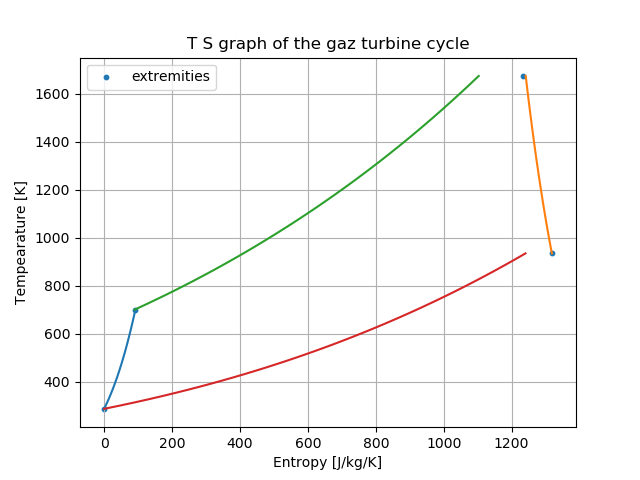
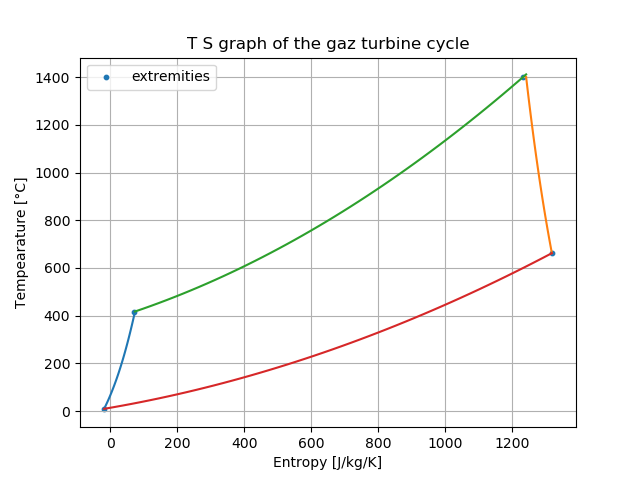
some changes

diff --git a/GT.py b/GT.py
@@ -330,24 +330,29 @@ def GT_simple(GT_input):
 
         # T S graph of the cycle
         Ta = np.linspace(T1,T2,50)
-        Tb = np.linspace(T2,T3,50)
+        #Tb = np.linspace(T2,T3,50)
         Tc = np.linspace(T4,T3,50)
         Td = np.linspace(T1,T4,50)
         Sa= np.zeros(len(Ta))
-        Sb = np.zeros(len(Tb))
+        #Sb = np.zeros(len(Tb))
         Sc = np.zeros(len(Tc))
-        Sd = np.zeros(len(Td))
+        #Sd = np.zeros(len(Td))
         for i in range(len(Ta)):
             Sa[i] = s1+(1-eta_pic)*janaf_integrate_air(cp_air_T,conc_mass1,Mm_a,T1,Ta[i],dt)
-            Sb[i]= s2 + janaf_integrate_air(cp_air_T,conc_mass1,Mm_a,T2,Tb[i],dt)
             Sc[i] = s4-(1-eta_pit)/eta_pit*janaf_integrate_air(cp_air_T,conc_mass1,Mm_a,T4,Tc[i],dt)
-            Sd[i]= s1 + janaf_integrate_air(cp_air_T,conc_mass1,Mm_a,T1,Td[i],dt)
+            #Sb[i] = s2+janaf_integrate_air(cp_air_T,conc_mass1,Mm_a,T2,Tb[i],dt)
+            #Sd[i]= s1 + janaf_integrate_air(cp_air_T,conc_mass1,Mm_a,T1,Td[i],dt)
+
+        Sb=np.linspace(Sa[-1],Sc[-1],50)
+        a,b,c= np.polyfit([s2,s3],[T2,T3],2)#  ==> c est faux
+        Sd=np.linspace(Sa[0],Sc[0],50)
+        a2,b2,c2= np.polyfit([s1,s4],[T1,T4],2) #==> c est faux
 
         fig3,ax1 = plt.subplots()
-        ax1.plot(Sa,Ta-273.15,Sc,Tc-273.15,Sb,Tb-273.15,Sd,Td-273.15)
+        ax1.plot(Sa,Ta-273.15,Sc,Tc-273.15,Sb,a*Sb**2+b*Sb+c-273.15,Sd,a2*Sd**2+b2*Sd+c2-273.15)
         ax1.scatter([s1,s2,s3,s4],[T1-273.15,T2-273.15,T3-273.15,T4-273.15],s=10,label='extremities')
         ax1.set_xlabel('Entropy [J/kg/K]')
-        ax1.set_ylabel('Tempearature [K]')
+        ax1.set_ylabel('Tempearature [°C]')
         ax1.grid(True)
         ax1.legend()
         ax1.set_title('T S graph of the gaz turbine cycle')
@@ -378,5 +383,5 @@ def GT_simple(GT_input):
 attention, la temperature de reference dans janaf n est pas 288.15 mais 298.15
 """
 
-GT_simple_outputs = GT_simple(GT_arg.GT_input(Pe = 230e3,k_mec =0.015, T_ext=10,T_0 = 15,r=18.,k_cc=0.95,T3 = 1400,Display =0));
+GT_simple_outputs = GT_simple(GT_arg.GT_input(Pe = 230e3,k_mec =0.015, T_ext=10,T_0 = 15,r=18.,k_cc=0.95,T3 = 1400,Display =1));
 print(GT_simple_outputs.dat)
